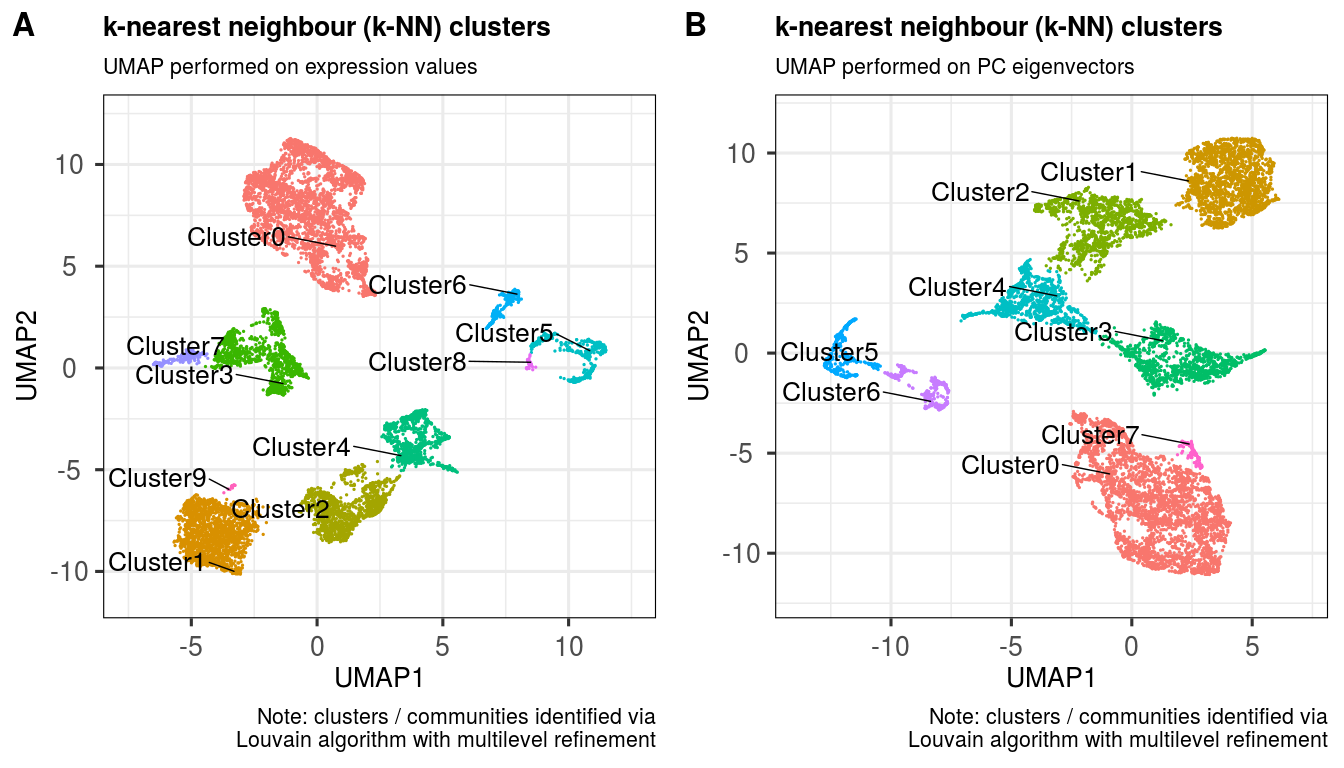
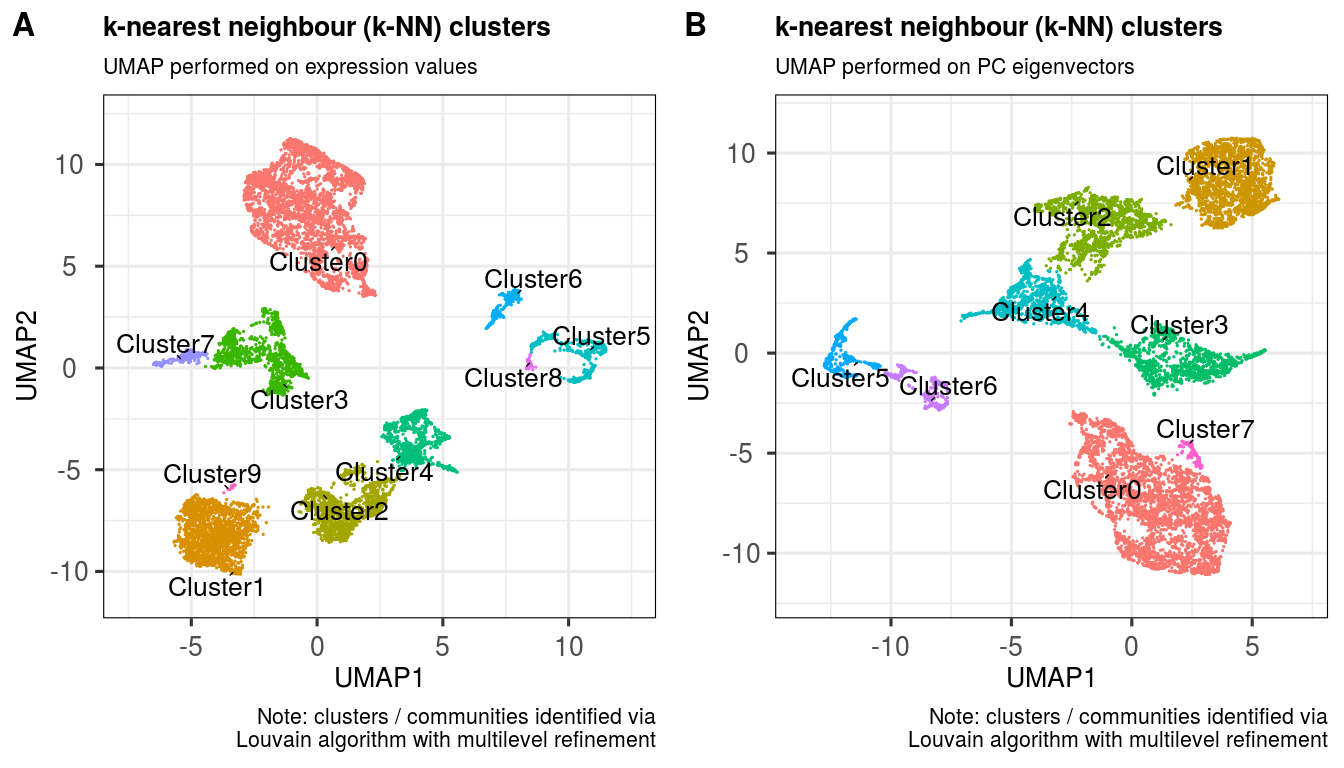
Update connector behaviour

diff --git a/README.md b/README.md
@@ -1,7 +1,7 @@
 scDataviz: single cell dataviz and downstream analyses
 ================
 Kevin Blighe
-2020-08-12
+2021-07-23
 
 # Introduction
 
@@ -17,13 +17,17 @@ studies that go beyond *scDataviz*. Finally, the graphics in *scDataviz*
 are generated via the *ggplot* (Wickham 2016) engine, which means that
 users can ‘add on’ features to these with ease.
 
-This package just provides some additional functions for dataviz and clustering,
-and provides another way of identifying cell-types in clusters. It is not strictly
-intended as a standalone analysis package. For a comprehensive high-dimensional
-cytometry workflow, it is recommended to check out the work by Nowicka
-*et al.* [CyTOF workflow: differential discovery in high-throughput high-dimensional cytometry datasets](https://f1000research.com/articles/6-748).
-For a more comprehensive scRNA-seq workflow, please check out [OSCA](https://osca.bioconductor.org)
-and [Analysis of single cell RNA-seq data](https://scrnaseq-course.cog.sanger.ac.uk/website/index.html).
+This package just provides some additional functions for dataviz and
+clustering, and provides another way of identifying cell-types in
+clusters. It is not strictly intended as a standalone analysis package.
+For a comprehensive high-dimensional cytometry workflow, it is
+recommended to check out the work by Nowicka *et al.* [CyTOF workflow:
+differential discovery in high-throughput high-dimensional cytometry
+datasets](https://f1000research.com/articles/6-748). For a more
+comprehensive scRNA-seq workflow, please check out
+[OSCA](https://osca.bioconductor.org) and [Analysis of single cell
+RNA-seq
+data](https://scrnaseq-course.cog.sanger.ac.uk/website/index.html).
 
 # Installation
 
@@ -2351,7 +2355,6 @@ Peripheral Blood Mononuclear Cells (PBMCs), we can convert this to a
 *SingleCellExperiment* object recognisable by *scDataviz* via
 `as.SingleCellExperiment()`.
 
-
 # Tutorial 3: Import any numerical data
 
 *scDataviz* will work with any numerical data, too. Here, we show a
@@ -2435,7 +2438,7 @@ This will also work without any assigned metadata.
 sessionInfo()
 ```
 
-    ## R version 4.0.2 (2020-06-22)
+    ## R version 4.0.3 (2020-10-10)
     ## Platform: x86_64-pc-linux-gnu (64-bit)
     ## Running under: Ubuntu 16.04.7 LTS
     ## 
@@ -2456,71 +2459,80 @@ sessionInfo()
     ## [8] methods   base     
     ## 
     ## other attached packages:
-    ##  [1] PCAtools_2.1.22             ggrepel_0.8.2              
-    ##  [3] ggplot2_3.3.2               scDataviz_0.99.60          
-    ##  [5] SingleCellExperiment_1.11.6 SummarizedExperiment_1.18.1
-    ##  [7] DelayedArray_0.14.0         matrixStats_0.56.0         
+    ##  [1] PCAtools_2.5.5              ggrepel_0.9.1              
+    ##  [3] ggplot2_3.3.3               scDataviz_1.1.3            
+    ##  [5] SingleCellExperiment_1.11.6 SummarizedExperiment_1.18.2
+    ##  [7] DelayedArray_0.14.1         matrixStats_0.57.0         
     ##  [9] Biobase_2.48.0              GenomicRanges_1.40.0       
     ## [11] GenomeInfoDb_1.24.2         IRanges_2.22.2             
     ## [13] S4Vectors_0.26.1            BiocGenerics_0.34.0        
-    ## [15] kableExtra_1.1.0            knitr_1.29                 
+    ## [15] kableExtra_1.3.1            knitr_1.31                 
     ## 
     ## loaded via a namespace (and not attached):
-    ##   [1] Seurat_3.1.5              Rtsne_0.15               
-    ##   [3] colorspace_1.4-1          ellipsis_0.3.1           
-    ##   [5] ggridges_0.5.2            cytolib_2.0.3            
-    ##   [7] XVector_0.28.0            rstudioapi_0.11          
-    ##   [9] farver_2.0.3              leiden_0.3.3             
-    ##  [11] listenv_0.8.0             RSpectra_0.16-0          
-    ##  [13] xml2_1.3.2                codetools_0.2-16         
-    ##  [15] splines_4.0.2             jsonlite_1.7.0           
-    ##  [17] umap_0.2.6.0              ica_1.0-2                
-    ##  [19] cluster_2.1.0             png_0.1-7                
-    ##  [21] uwot_0.1.8                sctransform_0.2.1        
-    ##  [23] readr_1.3.1               compiler_4.0.2           
-    ##  [25] httr_1.4.1                dqrng_0.2.1              
-    ##  [27] Matrix_1.2-18             lazyeval_0.2.2           
-    ##  [29] BiocSingular_1.4.0        htmltools_0.5.0          
-    ##  [31] tools_4.0.2               rsvd_1.0.3               
-    ##  [33] igraph_1.2.5              gtable_0.3.0             
-    ##  [35] glue_1.4.1                GenomeInfoDbData_1.2.3   
-    ##  [37] RANN_2.6.1                reshape2_1.4.4           
-    ##  [39] dplyr_1.0.0               rappdirs_0.3.1           
-    ##  [41] Rcpp_1.0.4.6              vctrs_0.3.1              
-    ##  [43] ape_5.4                   nlme_3.1-147             
-    ##  [45] DelayedMatrixStats_1.10.0 lmtest_0.9-37            
-    ##  [47] xfun_0.15                 stringr_1.4.0            
-    ##  [49] globals_0.12.5            rvest_0.3.5              
-    ##  [51] lifecycle_0.2.0           irlba_2.3.3              
-    ##  [53] future_1.17.0             zlibbioc_1.34.0          
-    ##  [55] MASS_7.3-51.6             zoo_1.8-8                
-    ##  [57] scales_1.1.1              RProtoBufLib_2.0.0       
-    ##  [59] hms_0.5.3                 RColorBrewer_1.1-2       
-    ##  [61] yaml_2.2.1                reticulate_1.16          
-    ##  [63] pbapply_1.4-2             gridExtra_2.3            
-    ##  [65] stringi_1.4.6             highr_0.8                
-    ##  [67] corrplot_0.84             flowCore_2.0.1           
-    ##  [69] BiocParallel_1.22.0       rlang_0.4.6              
-    ##  [71] pkgconfig_2.0.3           bitops_1.0-6             
-    ##  [73] evaluate_0.14             lattice_0.20-41          
-    ##  [75] ROCR_1.0-11               purrr_0.3.4              
-    ##  [77] labeling_0.3              patchwork_1.0.1          
-    ##  [79] htmlwidgets_1.5.1         cowplot_1.0.0            
-    ##  [81] tidyselect_1.1.0          RcppAnnoy_0.0.16         
-    ##  [83] plyr_1.8.6                magrittr_1.5             
-    ##  [85] R6_2.4.1                  generics_0.0.2           
-    ##  [87] withr_2.2.0               pillar_1.4.4             
-    ##  [89] fitdistrplus_1.1-1        survival_3.2-3           
-    ##  [91] RCurl_1.98-1.2            tibble_3.0.1             
-    ##  [93] future.apply_1.5.0        tsne_0.1-3               
-    ##  [95] crayon_1.3.4              KernSmooth_2.23-17       
-    ##  [97] plotly_4.9.2.1            rmarkdown_2.3            
-    ##  [99] isoband_0.2.2             grid_4.0.2               
-    ## [101] data.table_1.12.8         digest_0.6.25            
-    ## [103] webshot_0.5.2             tidyr_1.1.0              
-    ## [105] openssl_1.4.1             RcppParallel_5.0.2       
-    ## [107] munsell_0.5.0             viridisLite_0.3.0        
-    ## [109] askpass_1.1
+    ##   [1] corrplot_0.84             plyr_1.8.6               
+    ##   [3] igraph_1.2.6              lazyeval_0.2.2           
+    ##   [5] splines_4.0.3             flowCore_2.0.1           
+    ##   [7] BiocParallel_1.22.0       listenv_0.8.0            
+    ##   [9] scattermore_0.7           digest_0.6.27            
+    ##  [11] htmltools_0.5.1.1         magrittr_2.0.1           
+    ##  [13] tensor_1.5                cluster_2.1.0            
+    ##  [15] ROCR_1.0-11               globals_0.14.0           
+    ##  [17] RcppParallel_5.0.2        askpass_1.1              
+    ##  [19] cytolib_2.0.3             colorspace_2.0-0         
+    ##  [21] rvest_0.3.6               xfun_0.20                
+    ##  [23] dplyr_1.0.3               crayon_1.3.4             
+    ##  [25] RCurl_1.98-1.2            jsonlite_1.7.2           
+    ##  [27] spatstat_1.64-1           spatstat.data_1.7-0      
+    ##  [29] survival_3.2-7            zoo_1.8-8                
+    ##  [31] glue_1.4.2                polyclip_1.10-0          
+    ##  [33] gtable_0.3.0              zlibbioc_1.34.0          
+    ##  [35] XVector_0.28.0            webshot_0.5.2            
+    ##  [37] leiden_0.3.7              BiocSingular_1.4.0       
+    ##  [39] future.apply_1.7.0        abind_1.4-5              
+    ##  [41] scales_1.1.1              DBI_1.1.1                
+    ##  [43] miniUI_0.1.1.1            Rcpp_1.0.6               
+    ##  [45] isoband_0.2.3             viridisLite_0.3.0        
+    ##  [47] xtable_1.8-4              dqrng_0.2.1              
+    ##  [49] reticulate_1.18           rsvd_1.0.3               
+    ##  [51] umap_0.2.7.0              htmlwidgets_1.5.3        
+    ##  [53] httr_1.4.2                RColorBrewer_1.1-2       
+    ##  [55] ellipsis_0.3.1            Seurat_4.0.0             
+    ##  [57] ica_1.0-2                 farver_2.0.3             
+    ##  [59] pkgconfig_2.0.3           uwot_0.1.10              
+    ##  [61] deldir_0.2-9              labeling_0.4.2           
+    ##  [63] tidyselect_1.1.0          rlang_0.4.10             
+    ##  [65] reshape2_1.4.4            later_1.1.0.1            
+    ##  [67] munsell_0.5.0             tools_4.0.3              
+    ##  [69] generics_0.1.0            ggridges_0.5.3           
+    ##  [71] evaluate_0.14             stringr_1.4.0            
+    ##  [73] fastmap_1.1.0             yaml_2.2.1               
+    ##  [75] goftest_1.2-2             fitdistrplus_1.1-3       
+    ##  [77] purrr_0.3.4               RANN_2.6.1               
+    ##  [79] pbapply_1.4-3             future_1.21.0            
+    ##  [81] nlme_3.1-151              mime_0.9                 
+    ##  [83] xml2_1.3.2                compiler_4.0.3           
+    ##  [85] rstudioapi_0.13           plotly_4.9.3             
+    ##  [87] png_0.1-7                 spatstat.utils_2.0-0     
+    ##  [89] tibble_3.0.1              stringi_1.5.3            
+    ##  [91] highr_0.8                 RSpectra_0.16-0          
+    ##  [93] lattice_0.20-41           Matrix_1.3-2             
+    ##  [95] vctrs_0.3.6               pillar_1.4.7             
+    ##  [97] lifecycle_0.2.0           lmtest_0.9-38            
+    ##  [99] RcppAnnoy_0.0.18          data.table_1.13.6        
+    ## [101] cowplot_1.1.1             bitops_1.0-6             
+    ## [103] irlba_2.3.3               httpuv_1.5.5             
+    ## [105] patchwork_1.1.1           R6_2.5.0                 
+    ## [107] promises_1.1.1            KernSmooth_2.23-18       
+    ## [109] gridExtra_2.3             RProtoBufLib_2.0.0       
+    ## [111] parallelly_1.23.0         codetools_0.2-18         
+    ## [113] MASS_7.3-53               assertthat_0.2.1         
+    ## [115] openssl_1.4.3             withr_2.4.1              
+    ## [117] SeuratObject_4.0.0        sctransform_0.3.2        
+    ## [119] GenomeInfoDbData_1.2.3    mgcv_1.8-33              
+    ## [121] grid_4.0.3                rpart_4.1-15             
+    ## [123] tidyr_1.1.2               rmarkdown_2.6            
+    ## [125] DelayedMatrixStats_1.10.1 Rtsne_0.15               
+    ## [127] shiny_1.6.0
 
 # References
 
